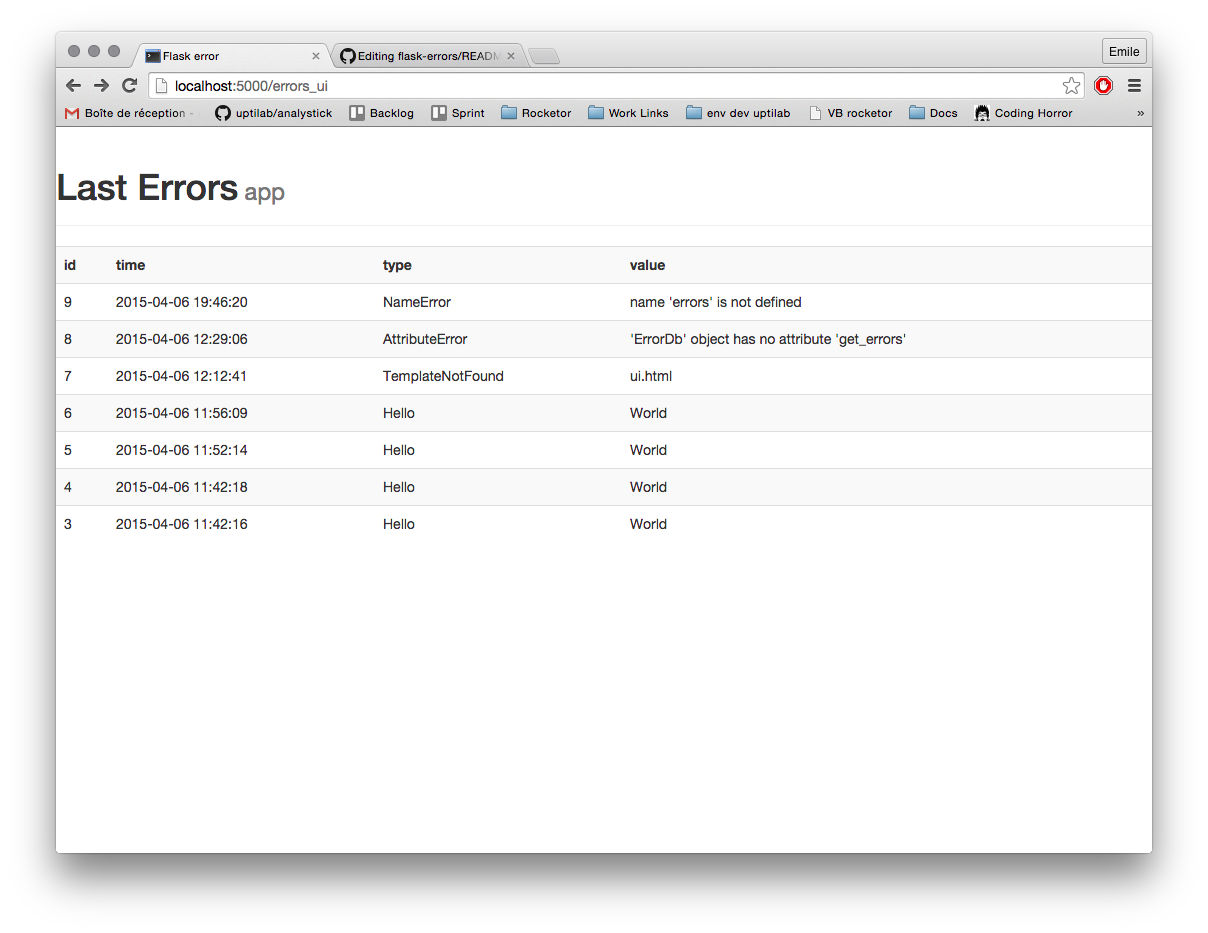
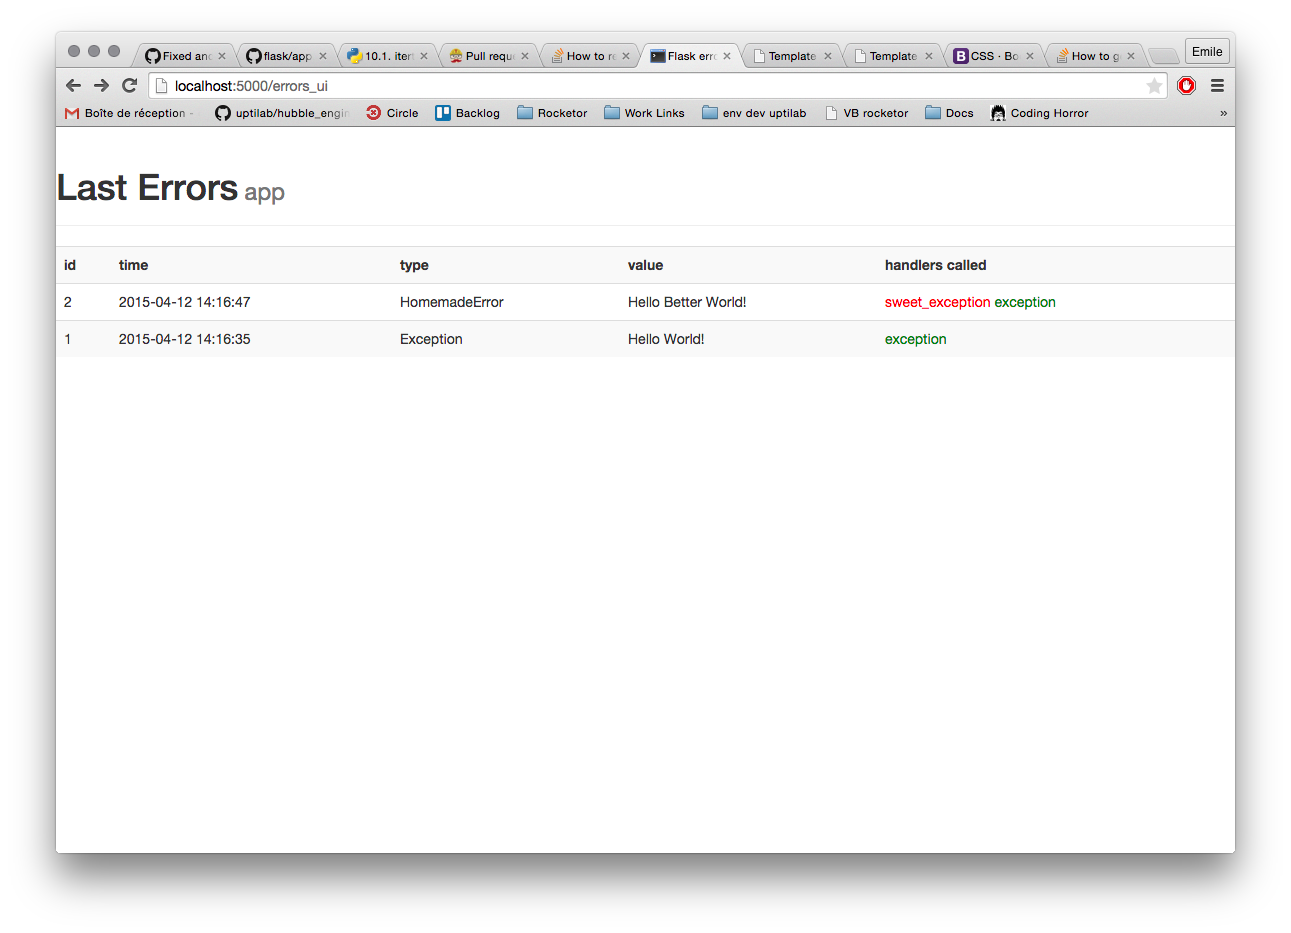
display handlers in the UI

diff --git a/root.html b/root.html
@@ -10,6 +10,7 @@
         <th>time</th>
         <th>type</th>
         <th>value</th>
+        <th>handlers called</th>
     </tr>
     {% for error in errors %}
     <tr onclick="document.location = '/errors_ui/error/{{ error.id }}';">
@@ -17,6 +18,13 @@
         <td>{{ error.timestamp }}</td>
         <td>{{ error.type }}</td>
         <td>{{ error.value }}</td>
+        <td>
+            {% for handler in error.handlers %}
+            <font color="{% if loop.last %}green{% else %}red{% endif %}">
+            {{ handler }}
+            </font>
+            {% endfor %}
+        </td>
     </tr>
     {% endfor %}
 </table>

diff --git a/errors.py b/errors.py
@@ -84,11 +84,11 @@ class FlaskError:
 
     def proxy_handler(self, error):
         ''' Handle any exception and call handlers '''
-        self._db.store_error(*sys.exc_info())
+        error_id = self._db.store_error(*sys.exc_info())
         self._db.expire(datetime.now() - self.expire)
-        return self.handle_error(error)
+        return self.handle_error(error, error_id)
 
-    def handle_error(self, error):
+    def handle_error(self, error, error_id):
         ''' Call best handlers until one returns '''
         valid_handlers = {
                 e: h 
@@ -103,9 +103,14 @@ class FlaskError:
 
         for cls in best_handlers:
             try:
-                return self._handlers[cls](error)
+                handler = self._handlers[cls]
+                self._db.store_handler_call(handler.__name__, error_id)
+                return handler(error)
             except type(error):
                 continue
+
+        # raise while work in progress
+        self._db.store_handler_call('InternalServerError', error_id)
         return InternalServerError()
 
     def api(self):
@@ -183,7 +188,7 @@ class ErrorDb:
 
         sqlcheck = "SELECT name FROM sqlite_master WHERE type='table' AND name='errors'"
         sqlcreate = 'CREATE TABLE errors(id integer primary key, timestamp timestamp, \
-                                         type text, value text, traceback text)'
+                                         type text, value text, traceback text, handlers text)'
 
         cursor.execute(sqlcheck)
         if not cursor.fetchall():
@@ -195,8 +200,23 @@ class ErrorDb:
         traceback_io = io.StringIO()
         traceback.print_tb(exc_traceback, file=traceback_io)
         values = (datetime.now(), exc_type.__name__, str(exc_value), traceback_io.getvalue())
-        sql_insert = 'INSERT INTO errors VALUES (NULL, ?, ?, ?, ?)'
+
+        sql_insert = 'INSERT INTO errors VALUES (NULL, ?, ?, ?, ?, "[]")'
         cursor.execute(sql_insert, values)
+
+        # This is not safe with race conditions
+        return cursor.lastrowid
+
+    @_cursor
+    def store_handler_call(self, cursor, handler_name, error_id):
+        sql = 'UPDATE errors SET handlers = ? WHERE id = ?'
+
+        error = self.get_error(error_id)
+        handlers = error['handlers']
+        handlers.append(handler_name)
+
+        cursor.execute(sql, (json.dumps(handlers), error_id))
+
 
     @_cursor
     def get_errors(self, cursor, limit=10):
@@ -215,13 +235,14 @@ class ErrorDb:
 
     def _build_json(self, row):
         ''' return a json obj from a row result '''
-        key, timestamp, exc_type, value, traceback = row
+        key, timestamp, exc_type, value, traceback, handlers = row
         return {
             'id': key,
             'timestamp': timestamp.strftime('%Y-%m-%d %H:%M:%S'),
             'type': exc_type,
             'value': value,
             'traceback': traceback,
+            'handlers': json.loads(handlers),
         }
 
     @_cursor

diff --git a/app.py b/app.py
@@ -21,6 +21,7 @@ def exception(error):
 
 @app.errorhandler(HomemadeError)
 def sweet_exception(error):
+    raise error
     return "500 have a nice day"
 
 

diff --git a/README.md b/README.md
@@ -8,6 +8,7 @@ A simple flask extension for out of the box error management
 * Provide a substitution errohandler system for flask, with:
 ** best handler selection mecanism, based on inheritence level
 ** handler chaining: the next best handler is triggered if the first one raises
+** handler status displayed in the ui
 
 # How to use
 Two extra lines are required in your flask application:
